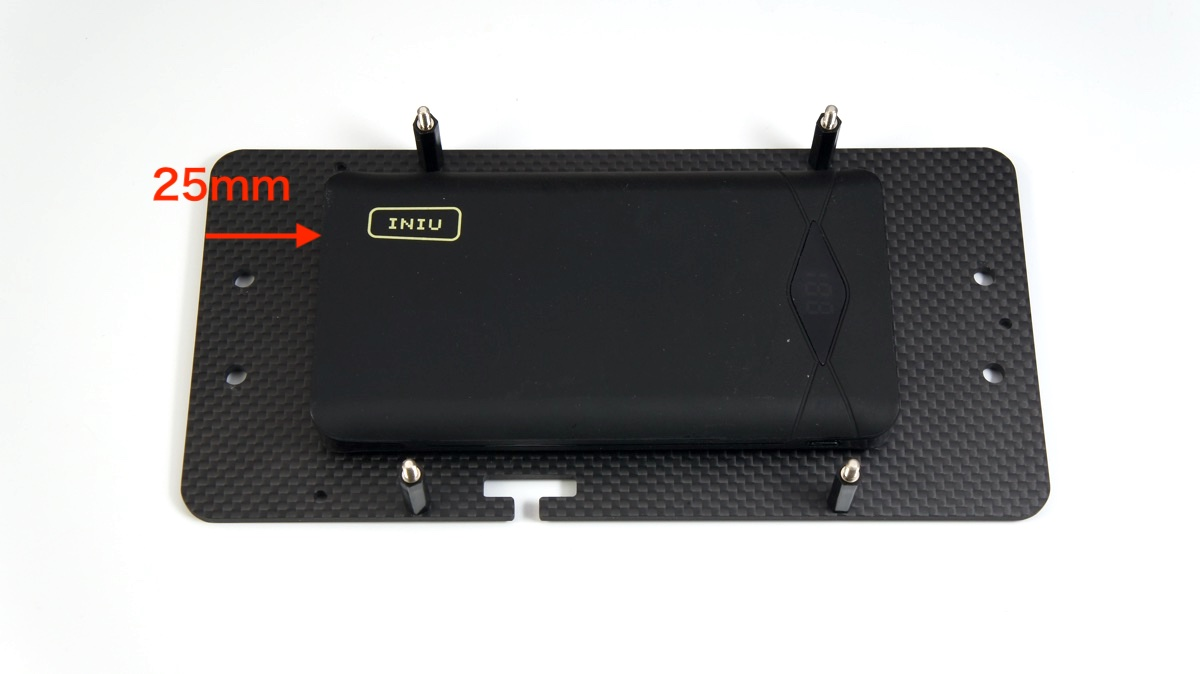
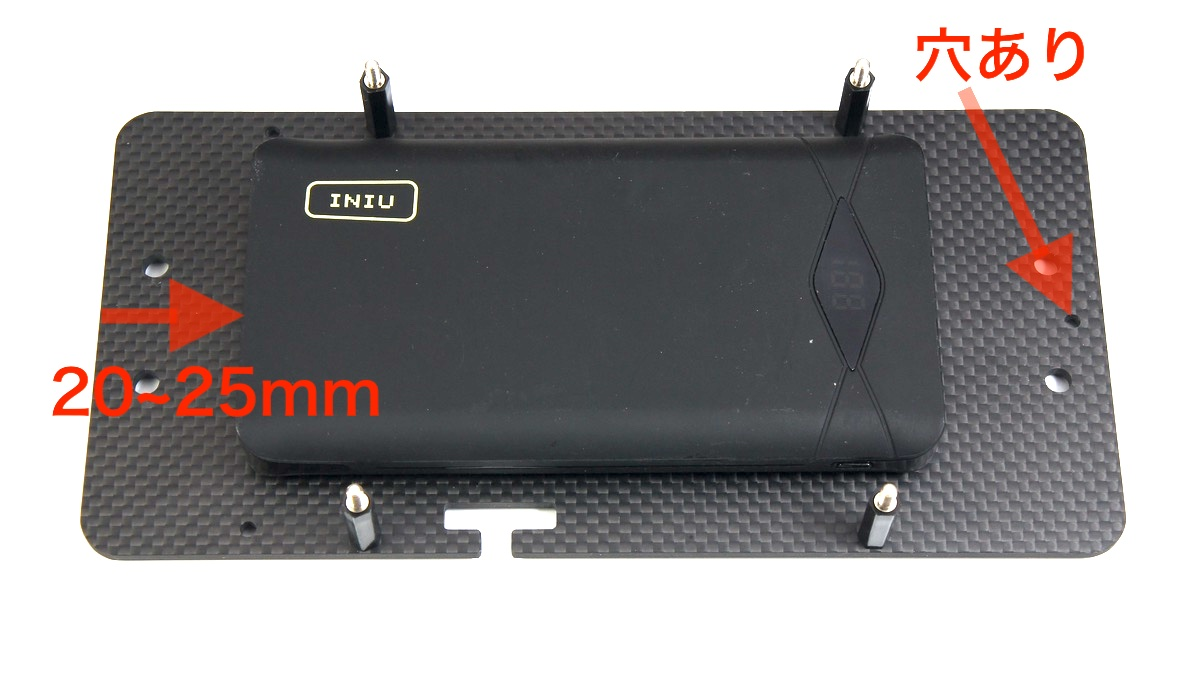
Deployed add7a72 with MkDocs version: 1.1.2

diff --git a/2.DonkeyCar3の個別設定/01.donkey_install/index.html b/2.DonkeyCar3の個別設定/01.donkey_install/index.html
@@ -1435,13 +1435,13 @@
 <h2 id="hostname">Hostnameの修正</h2>
 <p>Defaultでは、Macユーザは <code>ssh pi@raspberrypi.local</code> でRaspberryPiに接続できます。全員同じ名前になると、区別がつかないので、<code>hostname</code>, <code>hosts</code> の 2箇所のhost名を書き直し、独自の名前で呼び出せるようにしておきます。今回は、<code>raspberrypi</code>から<code>donkeypi</code>に書き直します。</p>
 <h3 id="hostname_1">hostnameの修正</h3>
-<div class=md-fenced-code-tabs id=tab-tab-group-2><input name=tab-group-2 type=radio id=tab-group-2-0_8ina6kwcc4xxzji checked=checked class=code-tab data-lang aria-controls=tab-group-2-0_8ina6kwcc4xxzji-panel role=tab><label for=tab-group-2-0_8ina6kwcc4xxzji class=code-tab-label data-lang id=tab-group-2-0_8ina6kwcc4xxzji-label></label><div class=code-tabpanel role=tabpanel data-lang id=tab-group-2-0_8ina6kwcc4xxzji-panel aria-labelledby=tab-group-2-0_8ina6kwcc4xxzji-label><table class=codehilitetable><tr><td class=linenos><div class=linenodiv><pre>1</pre></div></td><td class=code><div class=codehilite><pre><span></span><code><span class=err>sudo vi /etc/hostname</span>
-</code></pre></div></td></tr></table></div><input name=tab-group-2 type=radio id=tab-group-2-1_1ua600gg7f1f36v class=code-tab data-lang aria-controls=tab-group-2-1_1ua600gg7f1f36v-panel role=tab><label for=tab-group-2-1_1ua600gg7f1f36v class=code-tab-label data-lang id=tab-group-2-1_1ua600gg7f1f36v-label></label><div class=code-tabpanel role=tabpanel data-lang id=tab-group-2-1_1ua600gg7f1f36v-panel aria-labelledby=tab-group-2-1_1ua600gg7f1f36v-label><table class=codehilitetable><tr><td class=linenos><div class=linenodiv><pre>1</pre></div></td><td class=code><div class=codehilite><pre><span></span><code><span class=err>donkeypi</span>
+<div class=md-fenced-code-tabs id=tab-tab-group-2><input name=tab-group-2 type=radio id=tab-group-2-0_zl8y575sikfnkgk checked=checked class=code-tab data-lang aria-controls=tab-group-2-0_zl8y575sikfnkgk-panel role=tab><label for=tab-group-2-0_zl8y575sikfnkgk class=code-tab-label data-lang id=tab-group-2-0_zl8y575sikfnkgk-label></label><div class=code-tabpanel role=tabpanel data-lang id=tab-group-2-0_zl8y575sikfnkgk-panel aria-labelledby=tab-group-2-0_zl8y575sikfnkgk-label><table class=codehilitetable><tr><td class=linenos><div class=linenodiv><pre>1</pre></div></td><td class=code><div class=codehilite><pre><span></span><code><span class=err>sudo vi /etc/hostname</span>
+</code></pre></div></td></tr></table></div><input name=tab-group-2 type=radio id=tab-group-2-1_1xcwsrwefgh4bea class=code-tab data-lang aria-controls=tab-group-2-1_1xcwsrwefgh4bea-panel role=tab><label for=tab-group-2-1_1xcwsrwefgh4bea class=code-tab-label data-lang id=tab-group-2-1_1xcwsrwefgh4bea-label></label><div class=code-tabpanel role=tabpanel data-lang id=tab-group-2-1_1xcwsrwefgh4bea-panel aria-labelledby=tab-group-2-1_1xcwsrwefgh4bea-label><table class=codehilitetable><tr><td class=linenos><div class=linenodiv><pre>1</pre></div></td><td class=code><div class=codehilite><pre><span></span><code><span class=err>donkeypi</span>
 </code></pre></div></td></tr></table></div></div>
 
 <h3 id="hosts">hostsの修正</h3>
-<div class=md-fenced-code-tabs id=tab-tab-group-3><input name=tab-group-3 type=radio id=tab-group-3-0_pc0qbd7ygmm4p6w checked=checked class=code-tab data-lang aria-controls=tab-group-3-0_pc0qbd7ygmm4p6w-panel role=tab><label for=tab-group-3-0_pc0qbd7ygmm4p6w class=code-tab-label data-lang id=tab-group-3-0_pc0qbd7ygmm4p6w-label></label><div class=code-tabpanel role=tabpanel data-lang id=tab-group-3-0_pc0qbd7ygmm4p6w-panel aria-labelledby=tab-group-3-0_pc0qbd7ygmm4p6w-label><table class=codehilitetable><tr><td class=linenos><div class=linenodiv><pre>1</pre></div></td><td class=code><div class=codehilite><pre><span></span><code><span class=err>sudo vi /etc/hosts</span>
-</code></pre></div></td></tr></table></div><input name=tab-group-3 type=radio id=tab-group-3-1_d72b8oebn84y0wg class=code-tab data-lang aria-controls=tab-group-3-1_d72b8oebn84y0wg-panel role=tab><label for=tab-group-3-1_d72b8oebn84y0wg class=code-tab-label data-lang id=tab-group-3-1_d72b8oebn84y0wg-label></label><div class=code-tabpanel role=tabpanel data-lang id=tab-group-3-1_d72b8oebn84y0wg-panel aria-labelledby=tab-group-3-1_d72b8oebn84y0wg-label><table class=codehilitetable><tr><td class=linenos><div class=linenodiv><pre>1
+<div class=md-fenced-code-tabs id=tab-tab-group-3><input name=tab-group-3 type=radio id=tab-group-3-0_kusewqneaowqwt2 checked=checked class=code-tab data-lang aria-controls=tab-group-3-0_kusewqneaowqwt2-panel role=tab><label for=tab-group-3-0_kusewqneaowqwt2 class=code-tab-label data-lang id=tab-group-3-0_kusewqneaowqwt2-label></label><div class=code-tabpanel role=tabpanel data-lang id=tab-group-3-0_kusewqneaowqwt2-panel aria-labelledby=tab-group-3-0_kusewqneaowqwt2-label><table class=codehilitetable><tr><td class=linenos><div class=linenodiv><pre>1</pre></div></td><td class=code><div class=codehilite><pre><span></span><code><span class=err>sudo vi /etc/hosts</span>
+</code></pre></div></td></tr></table></div><input name=tab-group-3 type=radio id=tab-group-3-1_uugzymkwkrl7sik class=code-tab data-lang aria-controls=tab-group-3-1_uugzymkwkrl7sik-panel role=tab><label for=tab-group-3-1_uugzymkwkrl7sik class=code-tab-label data-lang id=tab-group-3-1_uugzymkwkrl7sik-label></label><div class=code-tabpanel role=tabpanel data-lang id=tab-group-3-1_uugzymkwkrl7sik-panel aria-labelledby=tab-group-3-1_uugzymkwkrl7sik-label><table class=codehilitetable><tr><td class=linenos><div class=linenodiv><pre>1
 2
 3
 4

diff --git a/9.FaBoCar/01.pwm/index.html b/9.FaBoCar/01.pwm/index.html
@@ -1128,7 +1128,7 @@
                 
                 <h1 id="servo">Servoの制御</h1>
 <h2 id="servo_1">Servoの制御</h2>
-<div class=md-fenced-code-tabs id=tab-tab-group-0><input name=tab-group-0 type=radio id=tab-group-0-0_lm2chj3blfhrl2s checked=checked class=code-tab data-lang aria-controls=tab-group-0-0_lm2chj3blfhrl2s-panel role=tab><label for=tab-group-0-0_lm2chj3blfhrl2s class=code-tab-label data-lang id=tab-group-0-0_lm2chj3blfhrl2s-label></label><div class=code-tabpanel role=tabpanel data-lang id=tab-group-0-0_lm2chj3blfhrl2s-panel aria-labelledby=tab-group-0-0_lm2chj3blfhrl2s-label><table class=codehilitetable><tr><td class=linenos><div class=linenodiv><pre>1
+<div class=md-fenced-code-tabs id=tab-tab-group-0><input name=tab-group-0 type=radio id=tab-group-0-0_1de3sw59bryir82 checked=checked class=code-tab data-lang aria-controls=tab-group-0-0_1de3sw59bryir82-panel role=tab><label for=tab-group-0-0_1de3sw59bryir82 class=code-tab-label data-lang id=tab-group-0-0_1de3sw59bryir82-label></label><div class=code-tabpanel role=tabpanel data-lang id=tab-group-0-0_1de3sw59bryir82-panel aria-labelledby=tab-group-0-0_1de3sw59bryir82-label><table class=codehilitetable><tr><td class=linenos><div class=linenodiv><pre>1
 2</pre></div></td><td class=code><div class=codehilite><pre><span></span><code><span class=err>git clone https://github.com/FaBoPlatform/FaBoPWM-PCA9685-Python</span>
 <span class=err>pip install FaBoPWM-PCA9685-Python/</span>
 </code></pre></div></td></tr></table></div><input name=tab-group-0 type=radio id=tab-group-0-1_python class=code-tab data-lang=python aria-controls=tab-group-0-1_python-panel role=tab><label for=tab-group-0-1_python class=code-tab-label data-lang=python id=tab-group-0-1_python-label>Python</label><div class=code-tabpanel role=tabpanel data-lang=python id=tab-group-0-1_python-panel aria-labelledby=tab-group-0-1_python-label><table class=codehilitetable><tr><td class=linenos><div class=linenodiv><pre> 1

diff --git a/1.DonkeyCar3の構築/00.DCK-R2/index.html b/1.DonkeyCar3の構築/00.DCK-R2/index.html
@@ -1683,7 +1683,7 @@
 <p><img alt="" src="../img/DCK-R2/DCK2_LE4_8.jpg" /></p>
 <p>両面テープの片側の剥離紙をとります。</p>
 <p><img alt="" src="../img/DCK-R2/DCK2_LE4_9.jpg" /></p>
-<p>モバイルバッテリーをベースプレートに貼ります。プレートの先端から約25mmぐらいのところにはります。モバイルバッテリーの向きは、USBポートがある方が後ろとなります。</p>
+<p>モバイルバッテリーをベースプレートに貼ります。プレートの先端からモバイルバッテリーまで約20~25mmぐらいのところにはります。モバイルバッテリーの向きは、USBポートがある方が後ろとなります。</p>
 <p><img alt="" src="../img/DCK-R2/DCK2_LE4_10.jpg" /></p>
 <p>モバイルバッテリーの上に基板取り付けプレートを載せ取り付けます。</p>
 <p><img alt="" src="../img/DCK-R2/DCK2_LE4_11.jpg" /></p>
